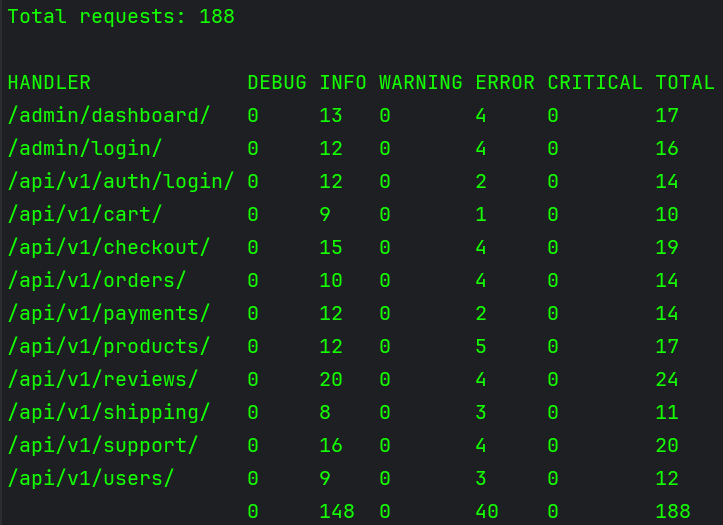
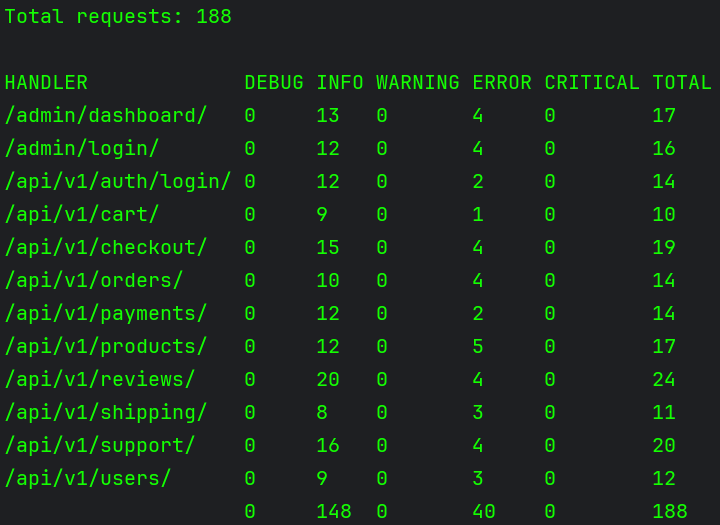
minor changes

diff --git a/README.md b/README.md
@@ -9,7 +9,9 @@
 python3 main.py logs/app1.log logs/app2.log logs/app3.log --report handlers
 </p>
 <p>На текущий момент реализован отчет с наименованием - <i>handlers</i></p>
-<p></p>
+<p>
+<img src="https://github.com/Needlees/Django_handlers_report/blob/master/img/example.png" width="525" style="max-width: 100%">
+</p>
 <p>Для добавления нового отчета необходимо импортировать модуль с отчетом в <code>main.py</code><br>
 и добавить его наименование и функцию по формированию в нижеприведенный словарь:</p>
 <pre>
